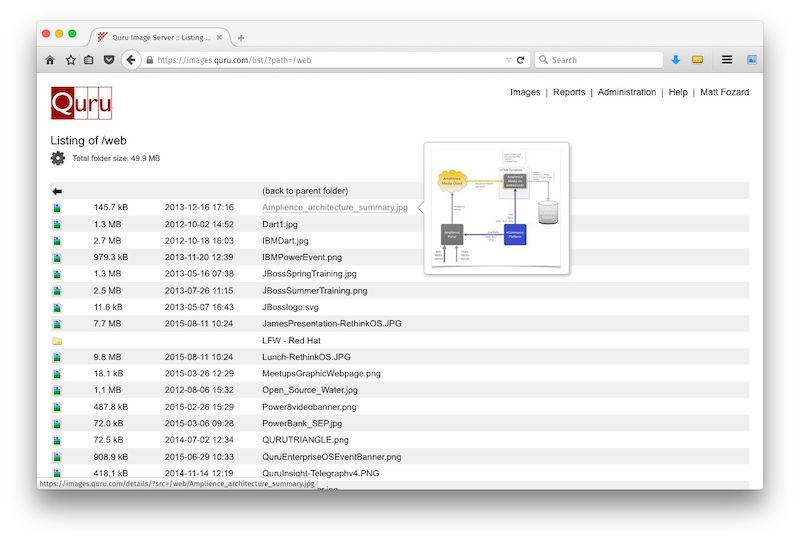
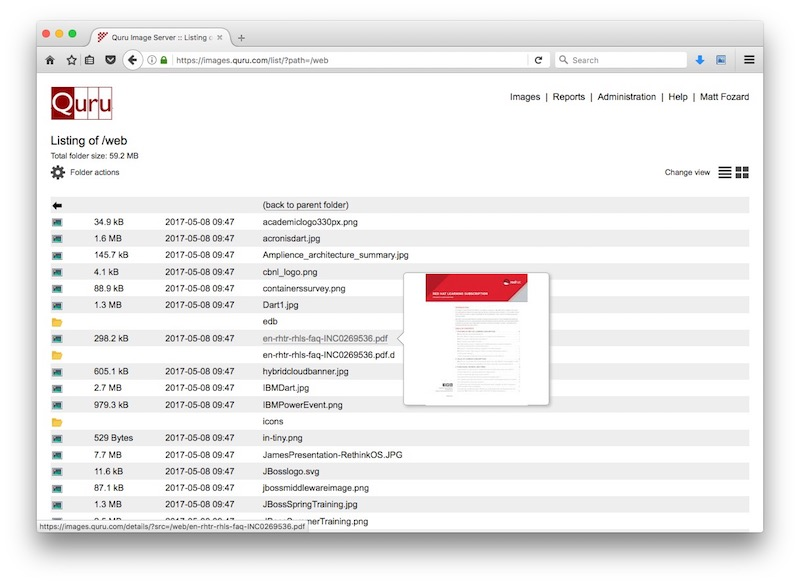
Update readme with v2 screen shots

diff --git a/src/imageserver/templates/publish.html b/src/imageserver/templates/publish.html
@@ -49,8 +49,8 @@
 			// Templates
 			'loading': 'Loading details...',
 			'loading_failed': 'Failed to load template details',
-			'template_labels': 'Template values are shown below with red labels',
-			'default_template_labels': 'Default values are shown below with red labels',
+			'template_labels': 'Items set by the template are shown below with red labels',
+			'default_template_labels': 'Items set by the default template are shown below with red labels',
 			'reset_changes': 'Undo your changes',
 			// Warnings
 			'warn_size': 'The image will not be enlarged beyond its original size',

diff --git a/README.md b/README.md
@@ -98,8 +98,11 @@ Management features in the web interface include:
 JavaScript library - image gallery (incorporating zooming viewer)  
 ![Embeddable gallery component](doc/images/mgmt_gallery_800.jpg)
 
-Web interface - folder browse  
+Web interface - folder browse - list view  
 ![Folder browse](doc/images/mgmt_folder_browse_800.jpg)
+
+Web interface - folder browse - grid view  
+![Folder browse](doc/images/mgmt_folder_grid_800.jpg)
 
 Web interface - image details  
 ![Image details view](doc/images/mgmt_image_view_800.jpg)
